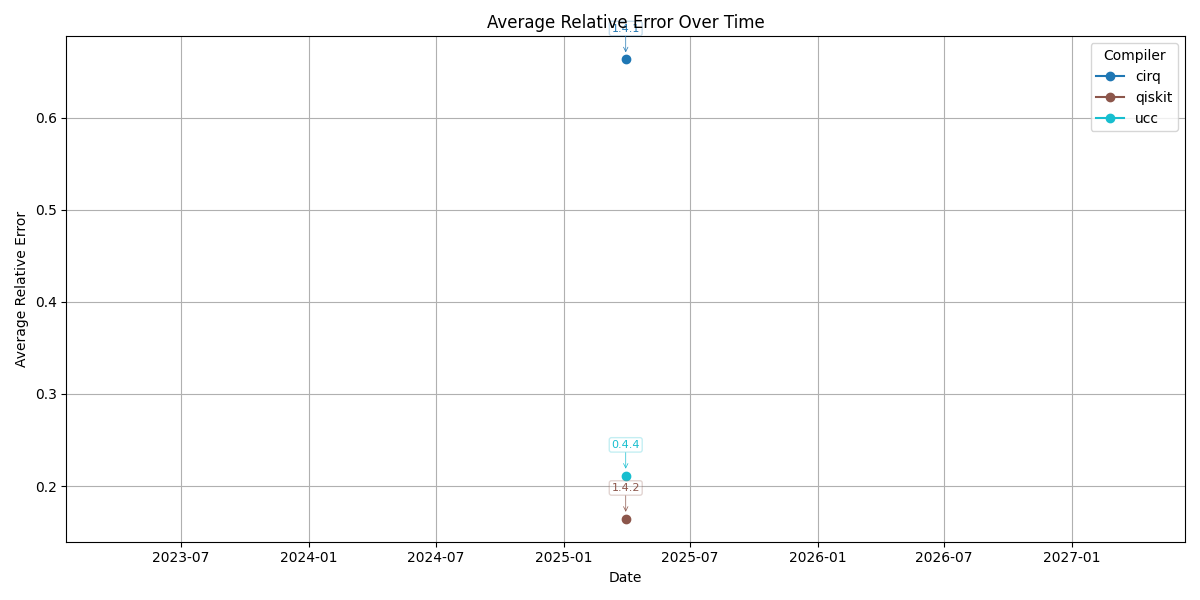
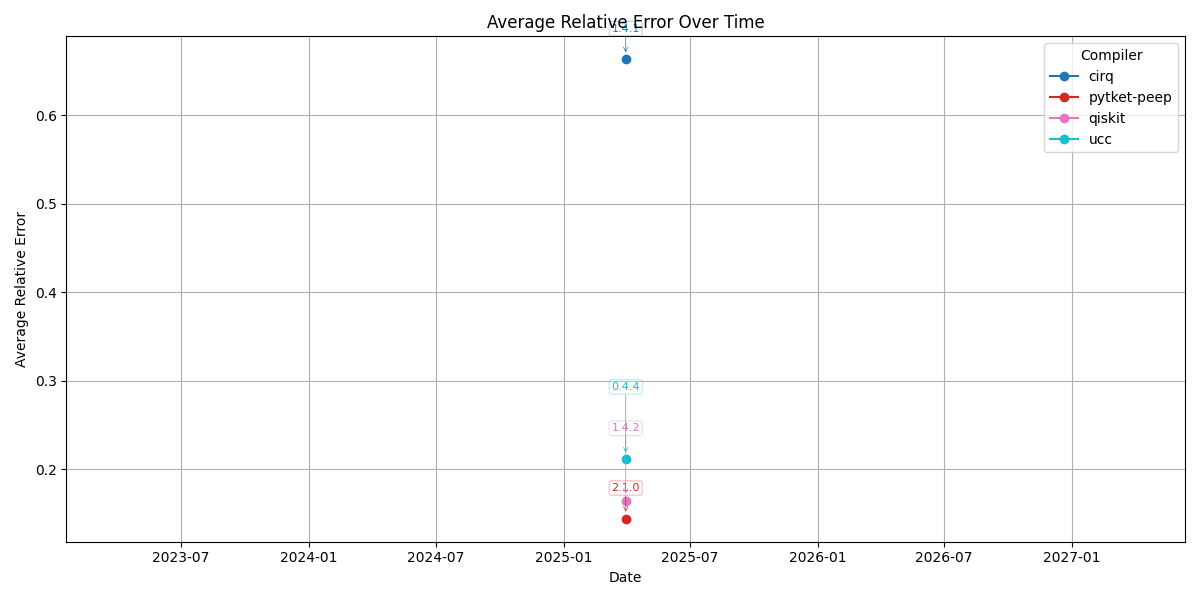
ensure pytket-peep is displayed

diff --git a/benchmarks/scripts/plot_expval_benchmarks_over_time.py b/benchmarks/scripts/plot_expval_benchmarks_over_time.py
@@ -28,6 +28,10 @@ for file in csv_files:
 
     # Add the extracted date as a new column in the dataframe
     df["date"] = date_label
+    if "pytket-peep" in df["compiler"].unique():
+        compiler_versions["pytket-peep"] = compiler_versions["pytket"]
+        # Remove pytket from compiler_versions for this datafile
+        compiler_versions.pop("pytket")
     df["compiler_version"] = df["compiler"].map(compiler_versions)
 
     # Append the dataframe to the list
